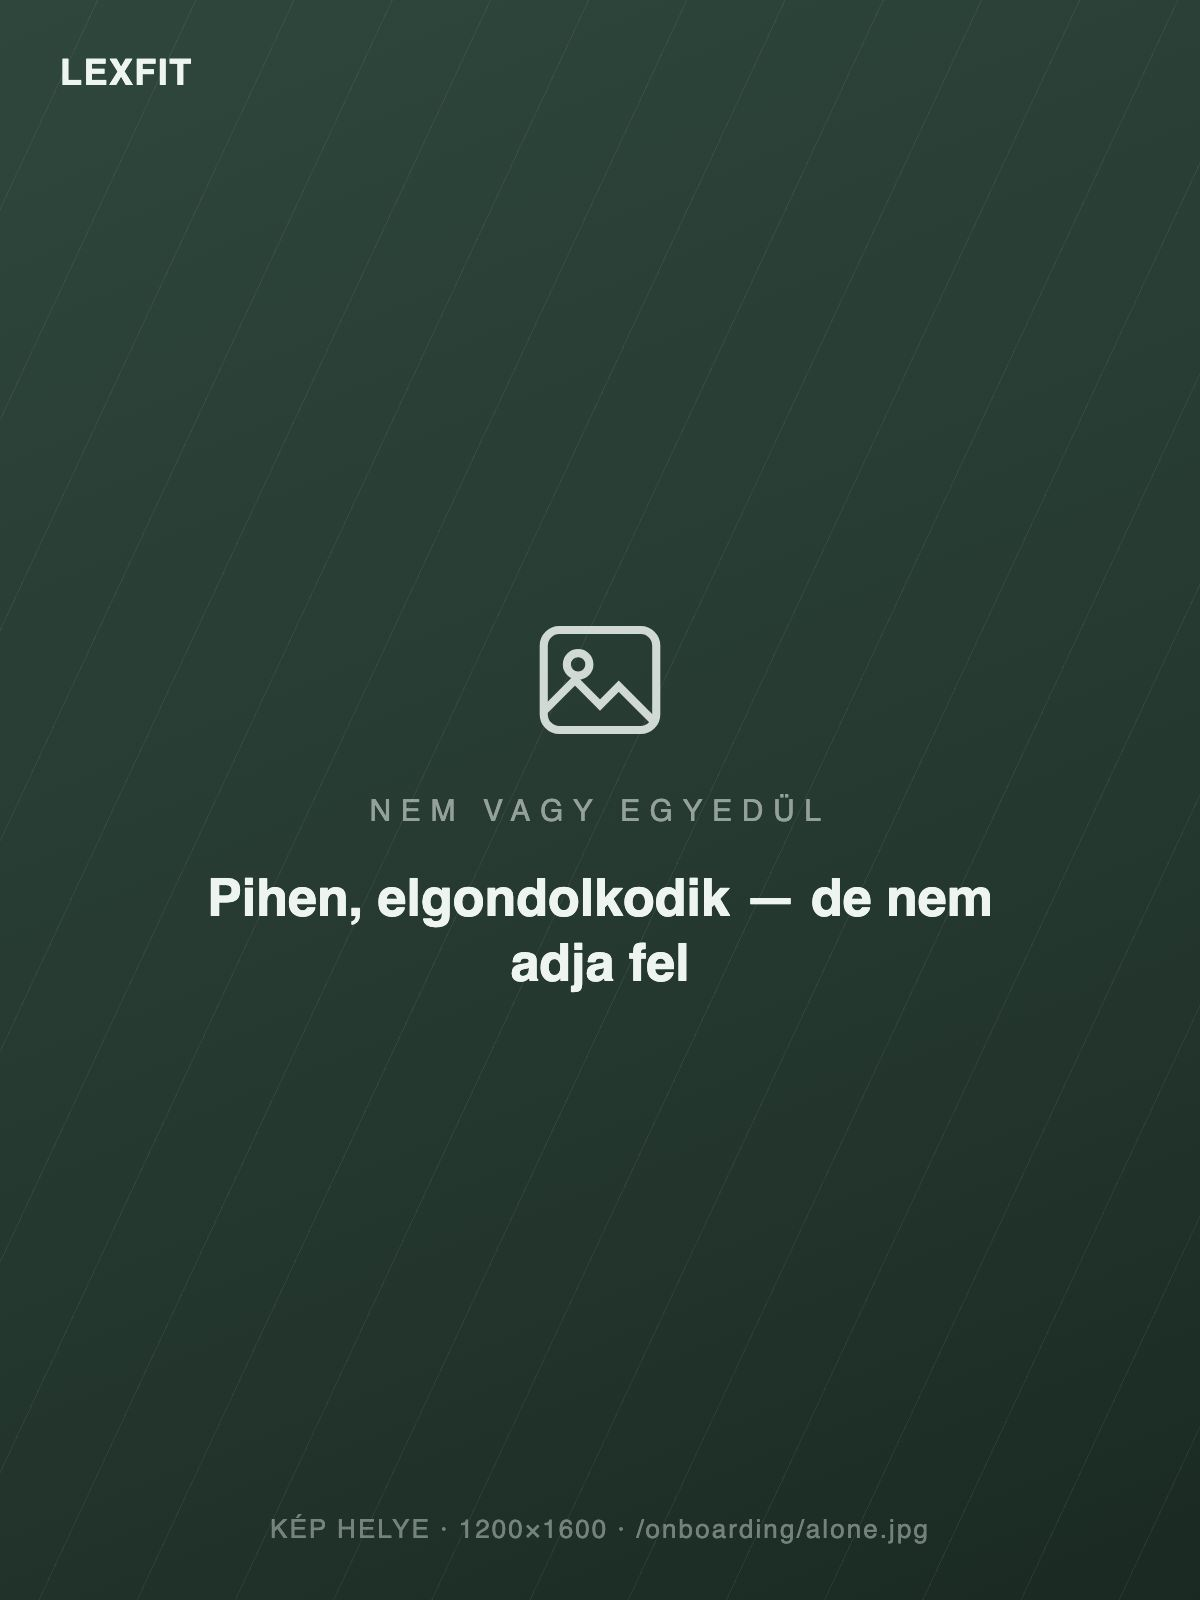
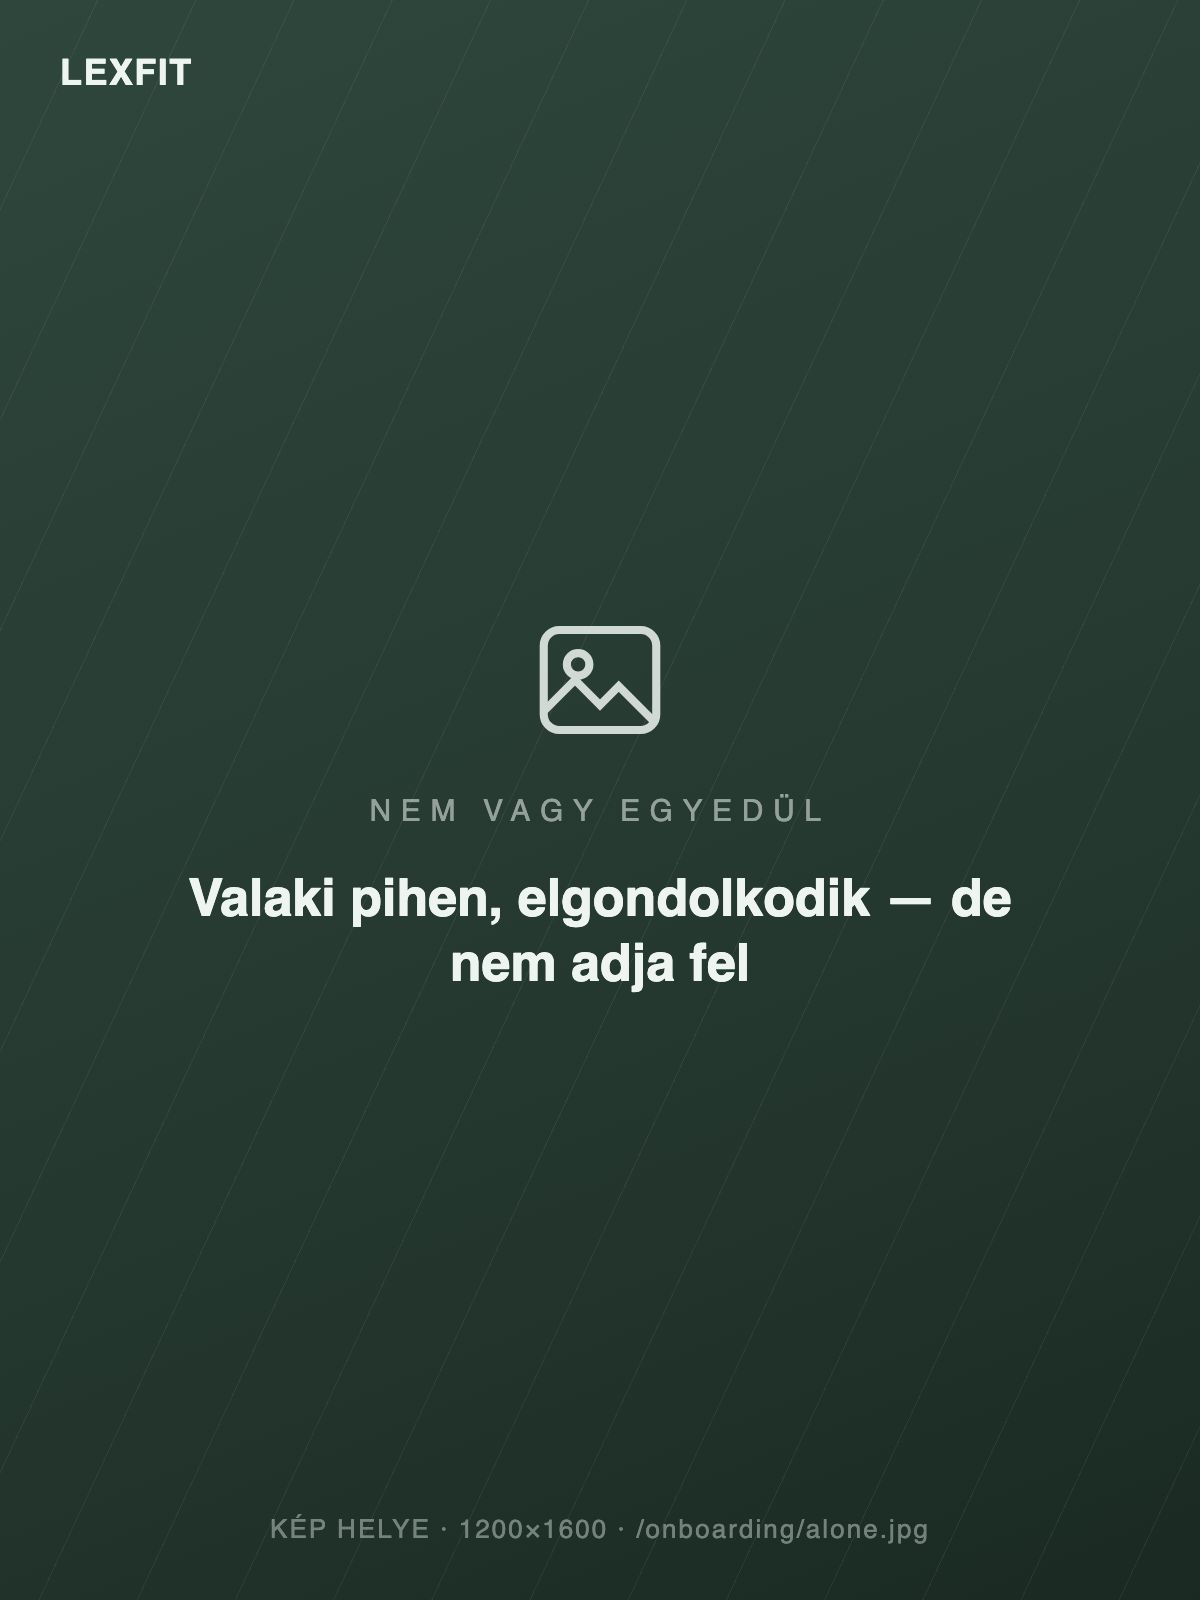
Remove women-only framing — LEXFIT is for everyone
The product isn't women-only; stop dividing by gender in user-facing copy and
onboarding imagery.
- Landing hero eyebrow: "A teljes otthoni edzésprogram · nőknek" → drop "· nőknek".
- page.tsx + layout.tsx meta descriptions: drop "nőknek" / "nőközpontú".
- Onboarding image briefs (public/onboarding/README.md) + regenerated placeholders:
  neutral/inclusive subjects ("someone"/"people", "mix of ages, genders, body types"),
  not "a woman"/"women". Alexa's founder portrait (story slot) stays — she's the real
  founder.
- Drop a "women-first" code comment in _mock.ts.

Note: CLAUDE.md, README.md, build-plan.md and older design-handoff docs still say
"women-first" — left for a separate decision on the canonical positioning docs.

Changed region(s): [[0.1542, 0.5312, 0.8325, 0.625]]

diff --git a/src/components/landing/LandingPage.tsx b/src/components/landing/LandingPage.tsx
@@ -593,7 +593,7 @@ export default function LandingPage() {
           </div>
           <div className="hero-body">
             <div className="hero-copy">
-              <div className="hero-eyebrow">A teljes otthoni edzésprogram · nőknek</div>
+              <div className="hero-eyebrow">A teljes otthoni edzésprogram</div>
               <h1>A változás<br /><b>otthon kezdődik</b></h1>
               <p className="body">Napi 30 perc, eszköz nélkül. Egy program, ami tudja, hol tartasz — és egy edző, aki végig veled marad.</p>
               <div className="hero-row">

diff --git a/src/app/page.tsx b/src/app/page.tsx
@@ -5,7 +5,7 @@ import LandingPage from "@/components/landing/LandingPage";
 export const metadata: Metadata = {
   title: "LEXFIT — A változás otthon kezdődik",
   description:
-    "A teljes otthoni edzésprogram nőknek. Napi 30 perc, eszköz nélkül — egy vezetett program, 200+ edzés, fejlődéskövetés és közösség.",
+    "A teljes otthoni edzésprogram. Napi 30 perc, eszköz nélkül — egy vezetett program, 200+ edzés, fejlődéskövetés és közösség.",
 };
 
 export default function Home() {

diff --git a/src/app/onboarding/_mock.ts b/src/app/onboarding/_mock.ts
@@ -47,7 +47,7 @@ export const MOCK = {
   },
 
   // Focus area — the body-positive rewrite of "problem areas" (research: the
-  // single biggest untapped "this is mine" lever for a women-first app). Framed
+  // single biggest untapped "this is mine" lever). Framed
   // as "where you want to feel stronger", never "trouble zones". Single-select.
   focus: {
     heading: "Hol szeretnél erősödni?",

diff --git a/src/app/layout.tsx b/src/app/layout.tsx
@@ -22,7 +22,7 @@ const plexMono = IBM_Plex_Mono({
 
 export const metadata: Metadata = {
   title: "LEXFIT",
-  description: "LEXFIT — vezetett, nőközpontú edzésprogram.",
+  description: "LEXFIT — vezetett otthoni edzésprogram.",
 };
 
 export default function RootLayout({

diff --git a/public/onboarding/README.md b/public/onboarding/README.md
@@ -9,23 +9,25 @@ dark bottom scrim and a short white caption (Apple-style). The files below are
 - **Size:** **1200 × 1600** (portrait, 3:4). 4:5 also fine — it's `object-fit: cover`.
 - **Composition:** the important subject in the **upper two-thirds** — the bottom
   ~40% is darkened by a scrim and covered by the caption text, so keep faces/action
-  above the lower third. Natural light, warm, women-first, home setting.
+  above the lower third. Natural light, warm, home setting. **LEXFIT is for everyone
+  — cast inclusively (mix of ages, genders, body types); do not skew the imagery to
+  one group.**
 - The white caption + LEXFIT wordmark are drawn on top in code — **no text in the image.**
 
 ## The 11 slots (key → subject brief → the caption that overlays it)
 
 | key | file | photo subject | caption (rendered in code) |
 |---|---|---|---|
-| welcome | `welcome.jpg` | A woman mid-movement at home, bright morning light, calm space | **A változás otthon kezdődik.** |
-| community | `community.jpg` | Several women together / a warm group energy (community) | A közösség · "1 200+ csoporttag, akik már csinálják." |
-| focus | `focus.jpg` | A woman in a targeted move (glutes/core/arms), strong & clean | Minden területre · "Van edzés arra, ahol erősödni akarsz." |
-| level | `level.jpg` | A woman training confidently — strength & control | Minden szint · "A szint hozzád igazodik — kezdőtől haladóig." |
+| welcome | `welcome.jpg` | Someone mid-movement at home, bright morning light, calm space | **A változás otthon kezdődik.** |
+| community | `community.jpg` | Several people together — a warm, mixed group energy | A közösség · "1 200+ csoporttag, akik már csinálják." |
+| focus | `focus.jpg` | Someone in a targeted move (glutes/core/arms), strong & clean | Minden területre · "Van edzés arra, ahol erősödni akarsz." |
+| level | `level.jpg` | Someone training confidently — strength & control | Minden szint · "A szint hozzád igazodik — kezdőtől haladóig." |
 | days | `days.jpg` | Weekly-rhythm mood — mat, clean surface, a calm routine feel | A heted · "Heti 5 edzés, napi 30 perc." |
-| player | `player.jpg` | A phone/tablet showing the workout video, woman following at home | A lejátszó · "Hang nélkül is végigvezet — TV-re is." |
+| player | `player.jpg` | A phone/tablet showing the workout video, someone following at home | A lejátszó · "Hang nélkül is végigvezet — TV-re is." |
 | env | `env.jpg` | A small home corner with a mat — apartment-friendly | Minden helyzetre · "Bármi is az — van rá változat." |
-| alone | `alone.jpg` | A woman resting/contemplative but not giving up (emotional) | Nem vagy egyedül · "Egyedül nehéz. Együtt muszáj." |
+| alone | `alone.jpg` | Someone resting/contemplative but not giving up (emotional) | Nem vagy egyedül · "Egyedül nehéz. Együtt muszáj." |
 | story | `story.jpg` | **Alexa** portrait — natural, close, the founder | Az alapító · "„Egyedül nem megy.” — Alexa" |
-| promise | `promise.jpg` | A woman after a workout — satisfied, confident (plan ready) | A terved kész · "Innentől együtt csináljuk." |
+| promise | `promise.jpg` | Someone after a workout — satisfied, confident (plan ready) | A terved kész · "Innentől együtt csináljuk." |
 | reassure | `reassure.jpg` | A quiet, trusting home moment (calm before commitment) | Nyugodt szívvel · "A közösség ingyenes marad…" |
 
 ## Step → image mapping (which question shows which)
